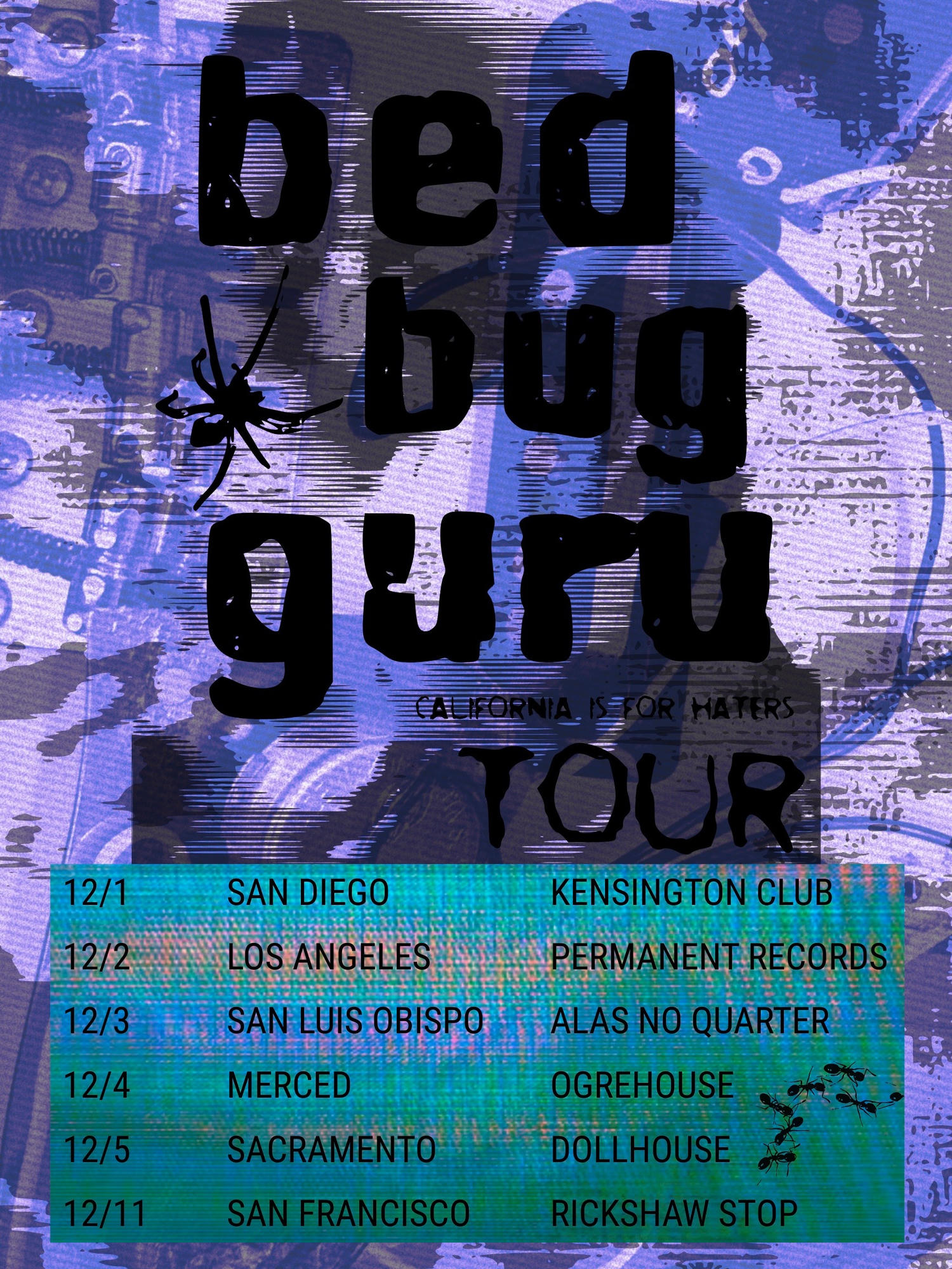
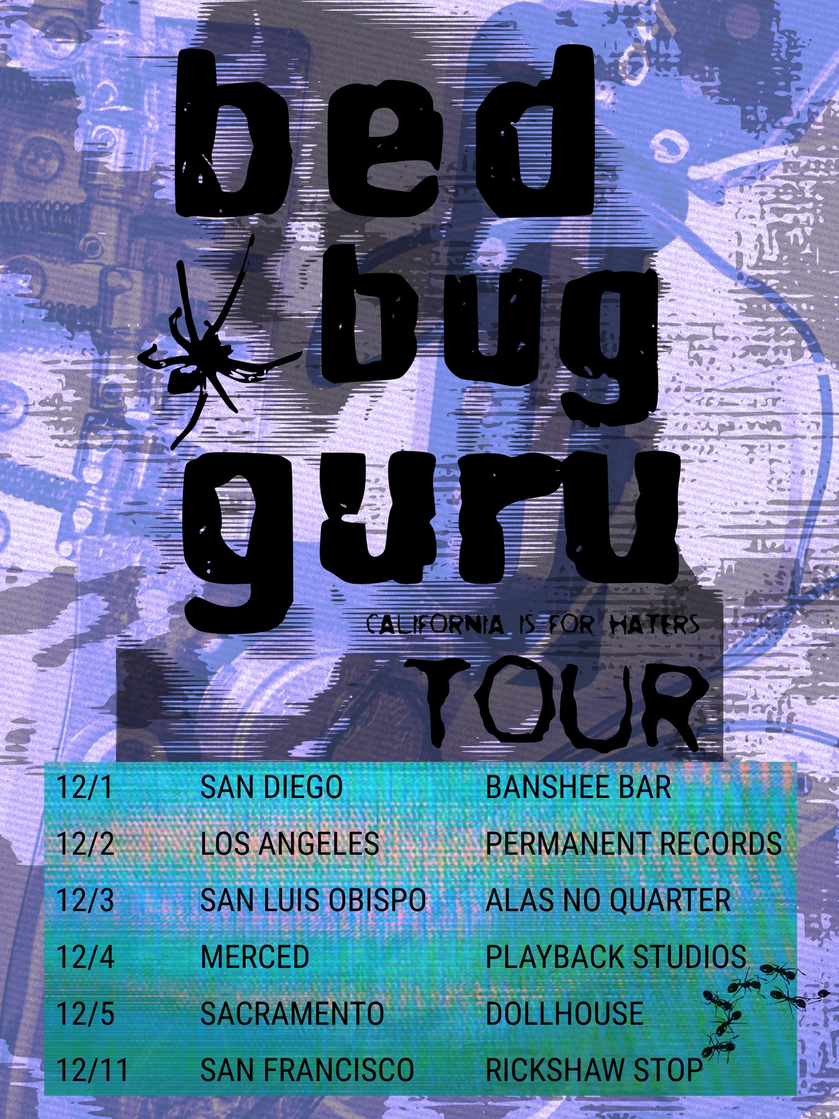
Update California tour flyer and remove wheel scroll interception
- Replace homepage California Tour flyer with new finalized image
- Remove custom wheel momentum listener in script.js that caused desktop Mac scroll stutter/lock
- Bump asset cache busters

diff --git a/script.js b/script.js
@@ -388,59 +388,6 @@ document.addEventListener('DOMContentLoaded', () => {
         scrollFrame = requestAnimationFrame(step);
     }
 
-    // Seamless scroll inertia / momentum assist for mouse wheels
-    (function initSeamlessScroll() {
-        if (window.matchMedia('(prefers-reduced-motion: reduce)').matches) return;
-        // Check for touch device — native momentum is already great on touch
-        const isTouch = 'ontouchstart' in window || navigator.maxTouchPoints > 0;
-        let targetY = window.scrollY;
-        let currentY = window.scrollY;
-        let animating = false;
-        const friction = 0.88;
-        const stepSize = 1;
-
-        window.addEventListener('wheel', event => {
-            // Only enhance discrete mouse wheels, skip precision trackpads with small deltaMode or ctrlKey (pinch)
-            if (event.ctrlKey || isAutoScrolling) return;
-            const maxScroll = document.documentElement.scrollHeight - window.innerHeight;
-            if (maxScroll <= 0) return;
-
-            // Keep target clamped
-            targetY = Math.max(0, Math.min(maxScroll, (animating ? targetY : window.scrollY) + event.deltaY * 1.15));
-            if (!animating) {
-                animating = true;
-                currentY = window.scrollY;
-                requestAnimationFrame(render);
-            }
-        }, { passive: true });
-
-        function render() {
-            if (isAutoScrolling) {
-                animating = false;
-                return;
-            }
-            const diff = targetY - currentY;
-            if (Math.abs(diff) < 0.5) {
-                currentY = targetY;
-                window.scrollTo(0, currentY);
-                animating = false;
-                return;
-            }
-            currentY += diff * (1 - friction);
-            window.scrollTo(0, currentY);
-            if (animating) {
-                requestAnimationFrame(render);
-            }
-        }
-
-        window.addEventListener('scroll', () => {
-            if (!animating && !isAutoScrolling) {
-                targetY = window.scrollY;
-                currentY = window.scrollY;
-            }
-        }, { passive: true });
-    })();
-
     directionNav?.querySelectorAll('a[href^="#"]').forEach(link => {
         link.addEventListener('click', event => {
             const target = document.getElementById(link.hash.slice(1));

diff --git a/index.html b/index.html
@@ -26,7 +26,7 @@
         <div class="tour-intro-card">
             <div class="tour-intro-banner">CALIFORNIA IS FOR HATERS TOUR</div>
             <div class="tour-intro-dates">DEC 1 – DEC 11 &bull; 6 CITIES</div>
-            <img class="tour-intro-img" src="images/flyers/2026-12-01_california-is-for-haters-tour.jpg" alt="California is for Haters Tour flyer">
+            <img class="tour-intro-img" src="images/flyers/2026-12-01_california-is-for-haters-tour.jpg?v=20261114e" alt="California is for Haters Tour flyer">
             <div class="tour-intro-sub">[ CLICK ANYWHERE TO ENTER SITE ]</div>
         </div>
     </div>
@@ -222,7 +222,7 @@
         <button class="flyer-viewer-close" type="button" aria-label="Close flyer preview">×</button>
         <img class="flyer-viewer-image" alt="">
     </dialog>
-    <script src="loader.js?v=20261114c"></script>
-    <script src="script.js?v=20261114c"></script>
+    <script src="loader.js?v=20261114e"></script>
+    <script src="script.js?v=20261114e"></script>
 </body>
 </html>
